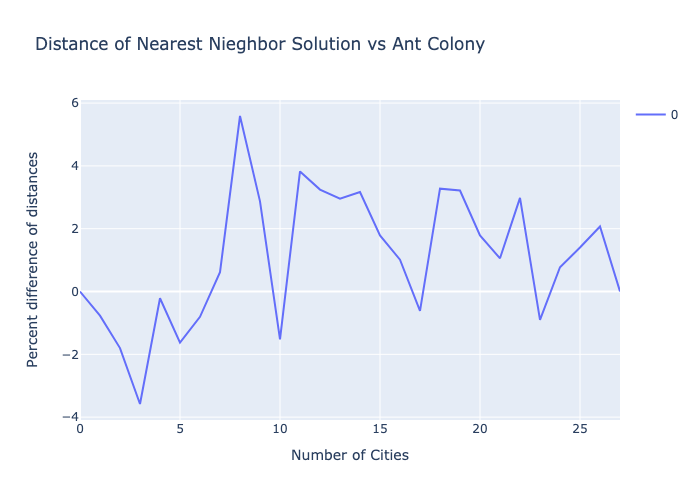
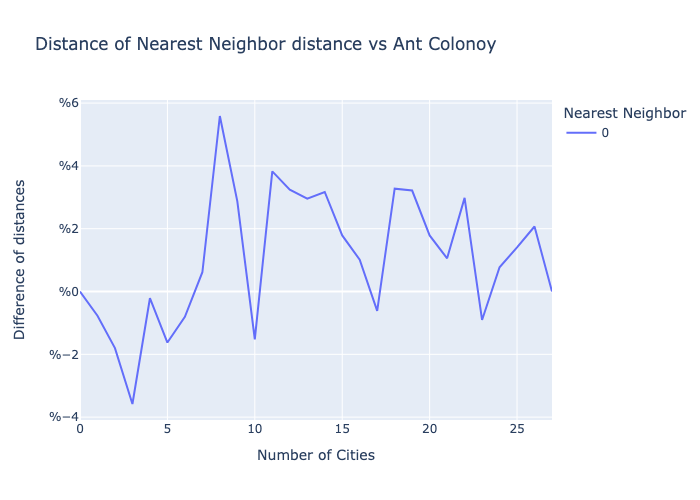
added functionality

diff --git a/src/viz/viz.py b/src/viz/viz.py
@@ -20,12 +20,9 @@ res_df['Nearest Neighbor'] = (df['NearestNeighbor'] - df['BranchBound'])/ df['Br
 
 fig = res_df.plot(
 	title = "Percent Error from optimial Solution",
-	labels = dict(index = "Number of Cities", value = "Percent", 	variable = "Series"),
+	labels = dict(index = "Number of Cities", value = "Error", 	variable = "Series"),
 )
-fig.write_html(
-	'./figures/prelim_dist_figure.html',
-	auto_open=True
-	)
+fig.update_yaxes(tickprefix="%")
 fig.write_image("figures/prelim_dist_figure.png")
 
 
@@ -38,13 +35,10 @@ res_df = (-df['AntColony'] + df['NearestNeighbor']) /((df['AntColony'] + df['Nea
 print(df.columns)
 
 fig = res_df.plot(
-	title = "Distance of Nearest Nieghbor Solution vs Ant Colony",
-	labels = dict(index = "Number of Cities", value = "Percent difference of distances", 	variable = ""),
+	title = "Distance of Nearest Neighbor distance vs Ant Colonoy",
+	labels = dict(index = "Number of Cities", value = "Difference of distances", 	variable = "Nearest Neighbor"),
 )
-fig.write_html(
-	'./figures/total_dist_figure.html',
-	auto_open=True
-	)
+fig.update_yaxes(tickprefix="%")
 fig.write_image("figures/total_dist_figure.png")
 
 
@@ -54,8 +48,5 @@ fig = df.plot(
 	title = "Time to Find Solution",
 	labels = dict(index = "Number of Cities", value = "Million CPU cycles", 	variable = "Any Colony"),
 )
-fig.write_html(
-	'./figures/total_time_figure.html',
-	auto_open=True
-	)
+fig.update_yaxes(tickprefix="%")
 fig.write_image("figures/total_time.png")
